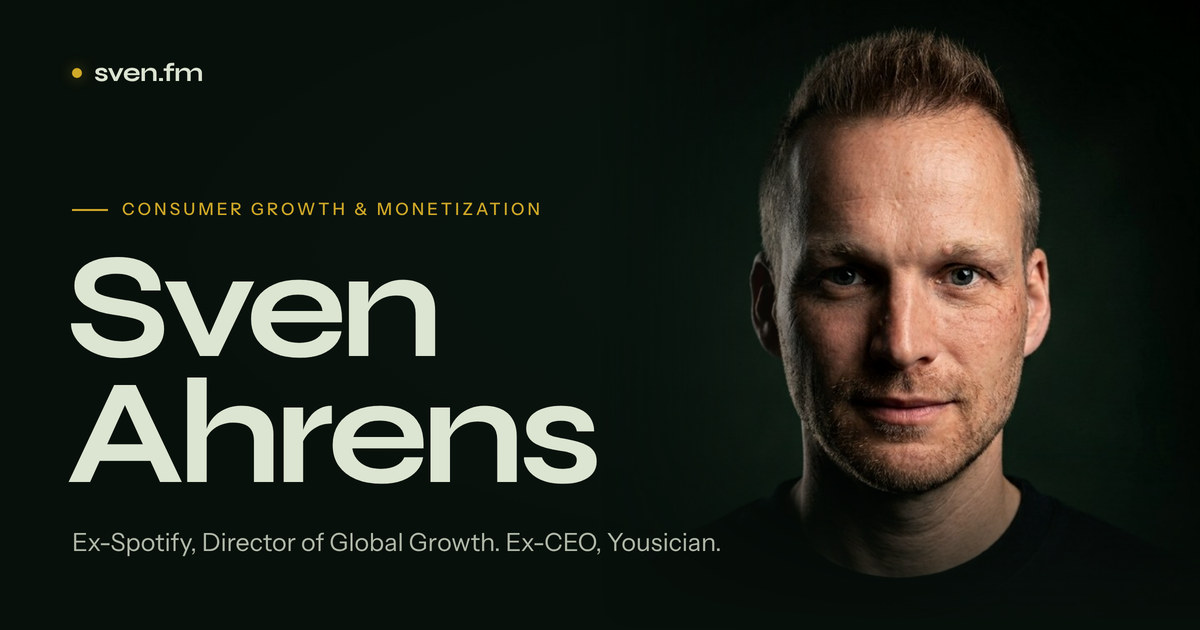
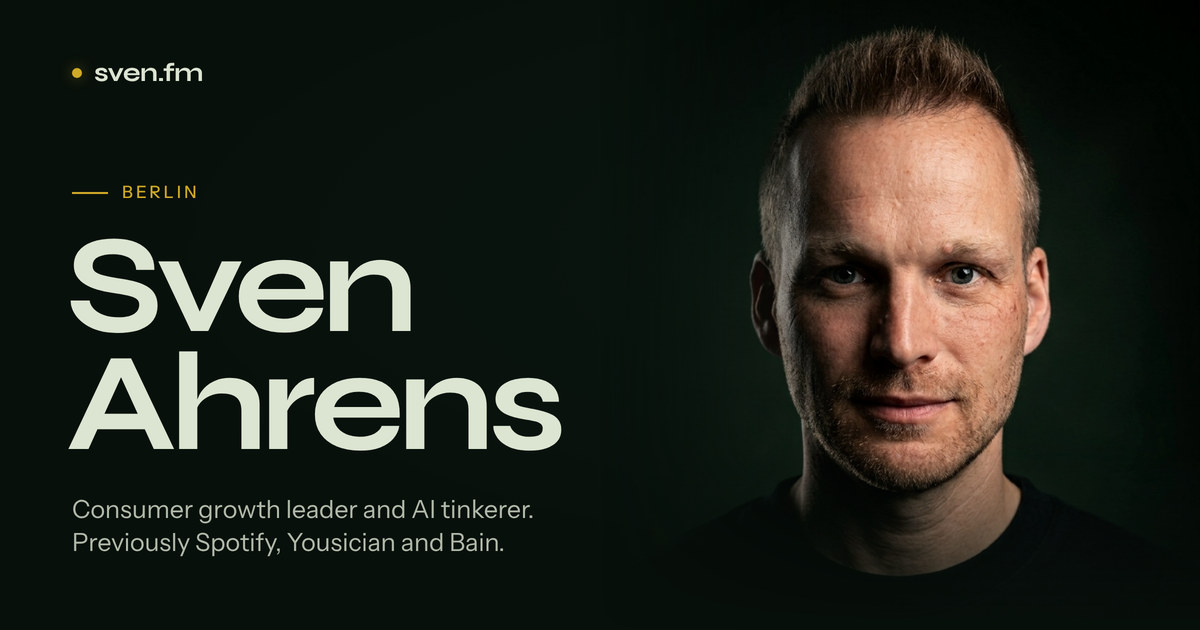
Hero copy, new portrait, WHU, $1B attribution
- Hero: "Berlin" kicker; deck is now "Consumer growth leader and AI
  tinkerer. Previously Spotify, Yousician and Bain." No titles.
- Availability line and its breathing dot removed.
- $1B+ is Spotify subscription revenue under Sven's responsibility,
  no longer attributed to the Global Growth team.
- WHU Otto Beisheim School of Management added to education (profile,
  JSON-LD, llms.txt).
- Portrait replaced with the 848px source, letterbox cropped;
  derivatives now 424/848.
- OG card re-rendered with the new hero copy.

Claude-Session: https://claude.ai/code/session_01GrJqFRcbmh3pGDBhrQCGYD

diff --git a/index.html b/index.html
@@ -5,7 +5,7 @@
   <meta name="viewport" content="width=device-width, initial-scale=1, viewport-fit=cover" />
 
   <title>Sven Ahrens · Consumer growth leader, ex-Spotify, Berlin</title>
-  <meta name="description" content="Sven Ahrens, consumer growth and monetization leader in Berlin. Eight years at Spotify, former CEO of Yousician, board observer and angel investor." />
+  <meta name="description" content="Sven Ahrens, consumer growth leader and AI tinkerer in Berlin. Previously Spotify, Yousician and Bain. Board observer and angel investor." />
   <meta name="author" content="Sven Ahrens" />
   <meta name="robots" content="index, follow, max-image-preview:large, max-snippet:-1, max-video-preview:-1" />
   <link rel="canonical" href="https://sven.fm/" />
@@ -24,7 +24,7 @@
   <meta property="og:site_name" content="Sven Ahrens" />
   <meta property="og:locale" content="en_US" />
   <meta property="og:title" content="Sven Ahrens · Consumer growth leader, ex-Spotify, Berlin" />
-  <meta property="og:description" content="Eight years at Spotify, former CEO of Yousician, board observer and angel investor." />
+  <meta property="og:description" content="Consumer growth leader and AI tinkerer. Previously Spotify, Yousician and Bain." />
   <meta property="og:image" content="https://sven.fm/assets/og.jpg" />
   <meta property="og:image:width" content="1200" />
   <meta property="og:image:height" content="630" />
@@ -36,7 +36,7 @@
 
   <link rel="preload" href="/assets/fonts/syne-latin-var.woff2" as="font" type="font/woff2" crossorigin />
   <link rel="preload" href="/assets/fonts/instrument-sans-latin-var.woff2" as="font" type="font/woff2" crossorigin />
-  <link rel="preload" as="image" type="image/avif" imagesrcset="/assets/sven-360.avif 360w, /assets/sven-720.avif 720w" imagesizes="(max-width: 820px) 100vw, 48vw" />
+  <link rel="preload" as="image" type="image/avif" imagesrcset="/assets/sven-424.avif 424w, /assets/sven-848.avif 848w" imagesizes="(max-width: 820px) 100vw, 48vw" />
   <link rel="stylesheet" href="/styles.css" />
   <script src="/main.js" defer></script>
 
@@ -63,7 +63,7 @@
         "mainEntity": { "@id": "https://sven.fm/#sven" },
         "hasPart": { "@id": "https://sven.fm/profile/#webpage" },
         "datePublished": "2026-06-08T09:00:00+02:00",
-        "dateModified": "2026-10-12T12:00:00+02:00",
+        "dateModified": "2026-10-12T16:00:00+02:00",
         "inLanguage": "en"
       },
       {
@@ -74,13 +74,13 @@
         "familyName": "Ahrens",
         "url": "https://sven.fm/",
         "jobTitle": "Consumer growth and monetization leader",
-        "description": "Sven Ahrens is a consumer growth and monetization leader based in Berlin. He spent eight years at Spotify (2016 to 2024), the last three as Director of Global Growth, where his team drove more than 60% of Spotify's subscriber growth and was responsible for over $1B in subscription revenue. From 2025 to 2026 he was CEO of Yousician, the company behind Yousician and GuitarTuna, with more than 20 million monthly active users. He is Board Observer at Female Invest and founder of Newconic Ventures, his angel investing vehicle.",
+        "description": "Sven Ahrens is a consumer growth and monetization leader based in Berlin. He spent eight years at Spotify (2016 to 2024), where he was responsible for more than $1B in subscription revenue and, as Director of Global Growth, led the team that drove more than 60% of Spotify's subscriber growth. From 2025 to 2026 he was CEO of Yousician, the company behind Yousician and GuitarTuna, with more than 20 million monthly active users. He is Board Observer at Female Invest and founder of Newconic Ventures, his angel investing vehicle.",
         "disambiguatingDescription": "The consumer growth leader (Spotify, Yousician, Newconic Ventures) based in Berlin. Not the archaeologist at Norsk Folkemuseum, the physicist at Shanghai Normal University or the R&D director on ResearchGate.",
         "image": {
           "@type": "ImageObject",
           "url": "https://sven.fm/assets/sven.jpg",
-          "width": 720,
-          "height": 934,
+          "width": 848,
+          "height": 1108,
           "caption": "Sven Ahrens"
         },
         "nationality": { "@type": "Country", "name": "Germany" },
@@ -97,6 +97,7 @@
           { "@type": "Organization", "name": "Muse Group", "url": "https://www.musegroup.com" },
           { "@type": "Organization", "name": "Spotify", "url": "https://spotify.com" },
           { "@type": "Organization", "name": "Bain & Company", "url": "https://www.bain.com" },
+          { "@type": "EducationalOrganization", "name": "WHU Otto Beisheim School of Management", "url": "https://www.whu.edu/" },
           { "@type": "EducationalOrganization", "name": "Stockholm School of Economics", "url": "https://www.hhs.se/" },
           { "@type": "EducationalOrganization", "name": "ESADE Business School", "url": "https://www.esade.edu/" }
         ],
@@ -154,25 +155,21 @@
     <section class="hero" aria-labelledby="name">
       <figure class="hero__photo">
         <picture>
-          <source type="image/avif" srcset="/assets/sven-360.avif 360w, /assets/sven-720.avif 720w" sizes="(max-width: 820px) 100vw, 48vw" />
-          <img src="/assets/sven.jpg" srcset="/assets/sven-360.jpg 360w, /assets/sven.jpg 720w" sizes="(max-width: 820px) 100vw, 48vw" alt="Portrait of Sven Ahrens" width="720" height="934" fetchpriority="high" />
+          <source type="image/avif" srcset="/assets/sven-424.avif 424w, /assets/sven-848.avif 848w" sizes="(max-width: 820px) 100vw, 48vw" />
+          <img src="/assets/sven.jpg" srcset="/assets/sven-424.jpg 424w, /assets/sven.jpg 848w" sizes="(max-width: 820px) 100vw, 48vw" alt="Portrait of Sven Ahrens" width="848" height="1108" fetchpriority="high" />
         </picture>
       </figure>
 
       <div class="hero__text">
-        <p class="kicker" data-in="1">Consumer growth &amp; monetization</p>
+        <p class="kicker" data-in="1">Berlin</p>
         <h1 id="name" class="hero__name">
           <span class="line"><span data-in="2">Sven</span></span>
           <span class="line"><span data-in="3">Ahrens</span></span>
         </h1>
         <p class="hero__deck" data-in="4">
-          Eight years scaling Spotify, the last three leading Global Growth.
-          Most recently CEO of Yousician.
+          Consumer growth leader and AI tinkerer.
+          Previously Spotify, Yousician and Bain.
         </p>
-        <a class="status" href="#contact" data-in="5">
-          <span class="dot dot--live" aria-hidden="true"></span>
-          Open to board seats, advisory and the right operating role
-        </a>
       </div>
     </section>
 
@@ -185,7 +182,7 @@
         </figure>
         <figure class="num" data-reveal>
           <span class="num__val"><span class="num__clip">$1B+</span></span>
-          <figcaption>in Spotify subscription revenue under that team's responsibility</figcaption>
+          <figcaption>in Spotify subscription revenue under my responsibility</figcaption>
         </figure>
         <figure class="num" data-reveal>
           <span class="num__val"><span class="num__clip">20M+</span></span>

diff --git a/profile/index.html b/profile/index.html
@@ -40,7 +40,7 @@
         "isPartOf": { "@id": "https://sven.fm/#website" },
         "about": { "@id": "https://sven.fm/#sven" },
         "mainEntity": { "@id": "https://sven.fm/#sven" },
-        "dateModified": "2026-10-12T12:00:00+02:00",
+        "dateModified": "2026-10-12T16:00:00+02:00",
         "inLanguage": "en",
         "breadcrumb": {
           "@type": "BreadcrumbList",
@@ -118,7 +118,7 @@
           {
             "@type": "Question",
             "name": "Is he open to a full-time role?",
-            "acceptedAnswer": { "@type": "Answer", "text": "Yes, for the right company and mandate. Recruiters are welcome to get in touch." }
+            "acceptedAnswer": { "@type": "Answer", "text": "He takes on full-time executive roles selectively, when the company, team and mandate fit." }
           },
           {
             "@type": "Question",
@@ -164,8 +164,8 @@
       <p class="doc__kicker">Profile</p>
       <h1>Sven Ahrens</h1>
       <p class="doc__lede">
-        Consumer growth and monetization leader based in Berlin. Eight years at Spotify, the last three
-        as Director of Global Growth. CEO of Yousician from 2025 to 2026. Board observer and angel investor.
+        Consumer growth leader and AI tinkerer based in Berlin. Previously Spotify, Yousician and Bain.
+        Board observer and angel investor.
       </p>
     </header>
 
@@ -173,9 +173,9 @@
       <h2 id="s-summary">Summary</h2>
       <div>
         <p>
-          Sven Ahrens spent eight years at Spotify (2016 to 2024) through its growth years. As Director of
-          Global Growth, his team drove more than 60% of Spotify's subscriber growth and was responsible
-          for over $1B in subscription revenue. From 2025 to 2026 he was CEO of Yousician, the company
+          Sven Ahrens spent eight years at Spotify (2016 to 2024) through its growth years. He was
+          responsible for more than $1B in subscription revenue, and as Director of Global Growth he led
+          the team that drove more than 60% of Spotify's subscriber growth. From 2025 to 2026 he was CEO of Yousician, the company
           behind Yousician and GuitarTuna, with more than 20 million monthly active users.
         </p>
         <p>
@@ -293,7 +293,7 @@
     <section aria-labelledby="s-bg">
       <h2 id="s-bg">Background</h2>
       <dl class="defs">
-        <div><dt>Education</dt><dd>Stockholm School of Economics; ESADE Business School</dd></div>
+        <div><dt>Education</dt><dd>WHU Otto Beisheim School of Management; Stockholm School of Economics; ESADE Business School</dd></div>
         <div><dt>Languages</dt><dd>German (native), English, Spanish, Portuguese</dd></div>
         <div><dt>Cities</dt><dd>Berlin, Stockholm, New York, Helsinki, Munich</dd></div>
       </dl>
@@ -303,7 +303,7 @@
       <h2 id="s-q">Questions</h2>
       <dl class="defs">
         <div><dt>What kind of roles does Sven Ahrens take on?</dt><dd>Operating roles (full-time, interim or fractional) leading growth, product, a region or a business unit; board seats, as member or observer; and advisory work with founders and executives.</dd></div>
-        <div><dt>Is he open to a full-time role?</dt><dd>Yes, for the right company and mandate. Recruiters are welcome to get in touch.</dd></div>
+        <div><dt>Is he open to a full-time role?</dt><dd>He takes on full-time executive roles selectively, when the company, team and mandate fit.</dd></div>
         <div><dt>What does he specialize in?</dt><dd>Consumer subscription growth: acquisition, conversion, pricing and packaging, retention and lifecycle, and international expansion, from early traction to hundreds of millions of users.</dd></div>
         <div><dt>What is Newconic Ventures?</dt><dd>Sven Ahrens's angel investing vehicle, founded in 2019. It backs pre-seed and seed consumer, prosumer, AI and subscription companies in Europe and the US. Exits include Butter (acquired by Miro) and Petli (acquired by Agria).</dd></div>
         <div><dt>Where is he based?</dt><dd>Berlin. He has worked in Berlin, Stockholm, New York, Helsinki and Munich, and speaks German, English, Spanish and Portuguese.</dd></div>

diff --git a/styles.css b/styles.css
@@ -141,11 +141,6 @@ a { color: inherit; text-decoration: none; }
   box-shadow: 0 0 0 0 var(--brass-glow), 0 0 10px var(--brass-glow);
   flex: none;
 }
-.dot--live { animation: breathe 3.6s var(--ease-io) infinite; }
-@keyframes breathe {
-  0%, 100% { box-shadow: 0 0 0 0 rgba(208,169,40,.0), 0 0 8px var(--brass-glow); }
-  50%      { box-shadow: 0 0 0 6px rgba(208,169,40,.10), 0 0 16px var(--brass-glow); }
-}
 
 .label {
   font: 500 var(--fs-label)/1.3 var(--text);
@@ -235,14 +230,6 @@ a { color: inherit; text-decoration: none; }
   font-size: var(--fs-deck); line-height: 1.38; letter-spacing: -.01em;
   color: var(--sage-body);
 }
-.status {
-  margin-top: clamp(26px, 3vw, 36px);
-  display: inline-flex; align-items: center; gap: 12px;
-  font-size: var(--fs-small); color: var(--sage-muted);
-  transition: color var(--t-fast) var(--ease);
-}
-.status:hover { color: var(--sage); }
-
 /* ── Numbers ───────────────────────────────────────────────────────────── */
 .numbers { padding: clamp(40px, 6vw, 96px) 0 var(--block); }
 .numbers__grid {
@@ -437,7 +424,6 @@ a { color: inherit; text-decoration: none; }
 .is-ready [data-in="2"] { transition-delay: 180ms; }
 .is-ready [data-in="3"] { transition-delay: 290ms; }
 .is-ready [data-in="4"] { transition-delay: 520ms; }
-.is-ready [data-in="5"] { transition-delay: 660ms; }
 .is-ready .hero__photo {
   opacity: 1; transform: none;
   transition: opacity 1800ms var(--ease), transform 2600ms var(--ease);
@@ -456,7 +442,6 @@ a { color: inherit; text-decoration: none; }
   .js [data-in], .js [data-reveal], .js .hero__photo, .js .num .num__clip, .js .hero__name [data-in] {
     opacity: 1 !important; transform: none !important; transition: none !important;
   }
-  .dot--live { animation: none; }
 }
 
 /* ── Responsive ────────────────────────────────────────────────────────── */

diff --git a/design-system/og.html b/design-system/og.html
@@ -30,7 +30,7 @@
     .kicker { display: flex; align-items: center; gap: 14px; font: 500 17px/1 var(--text);
       letter-spacing: .18em; text-transform: uppercase; color: var(--brass); margin-bottom: 26px; }
     .kicker::before { content: ""; width: 36px; height: 1.5px; background: currentColor; }
-    h1 { font: 700 150px/.84 var(--display); letter-spacing: -.05em; margin-left: -6px; }
+    h1 { font: 700 140px/.84 var(--display); letter-spacing: -.05em; margin-left: -6px; }
     p { margin-top: 30px; font-size: 25px; line-height: 1.35; color: var(--sage-body); }
   </style>
 </head>
@@ -38,9 +38,9 @@
   <figure class="photo"><img src="/assets/sven.jpg" alt=""></figure>
   <div class="mark"><span class="dot"></span>sven.fm</div>
   <div class="text">
-    <div class="kicker">Consumer growth &amp; monetization</div>
+    <div class="kicker">Berlin</div>
     <h1>Sven<br>Ahrens</h1>
-    <p>Ex-Spotify, Director of Global Growth. Ex-CEO, Yousician.</p>
+    <p>Consumer growth leader and AI tinkerer.<br>Previously Spotify, Yousician and Bain.</p>
   </div>
 </body>
 </html>

diff --git a/design-system/README.md b/design-system/README.md
@@ -10,12 +10,11 @@ for the asset templates.
    ledger, a wall of names and one way to get in touch. Everything else lives
    on `/profile/`, typeset as a document, and in the JSON-LD and `llms.txt`.
 2. **Facts, not adjectives.** No "help", no "passionate", no rotating role
-   lines, no FAQ on the home page. Numbers carry the claim.
+   lines, no availability pitch, no FAQ on the home page. Numbers carry the claim.
 3. **One accent.** Brass marks state (the live dot, an exit, a hover). Never a
    fill, never a gradient, never on paper (use `--brass-ink` there).
 4. **Tactile, not decorative.** Grain, a portrait that leans a few pixels
-   toward the pointer, hover states that move like objects. Nothing loops
-   except the availability dot.
+   toward the pointer, hover states that move like objects. Nothing loops.
 
 ## Surfaces
 
@@ -74,5 +73,6 @@ under `prefers-reduced-motion`.
 
 ## Assets wanted
 
-The portrait is 720px wide. On a retina screen the hero shows it at about
-1.6x. A 2000px original of the same shot would make the hero crisp.
+The portrait is 848px wide (letterbox cropped from the supplied PNG). On a
+retina screen the hero shows it at about 1.4x. A 2000px original of the same
+shot would make it fully crisp.
